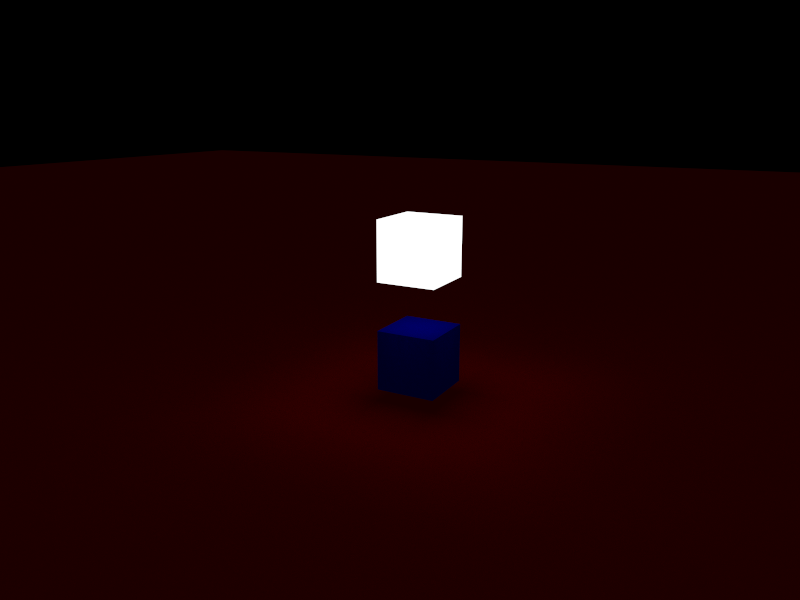
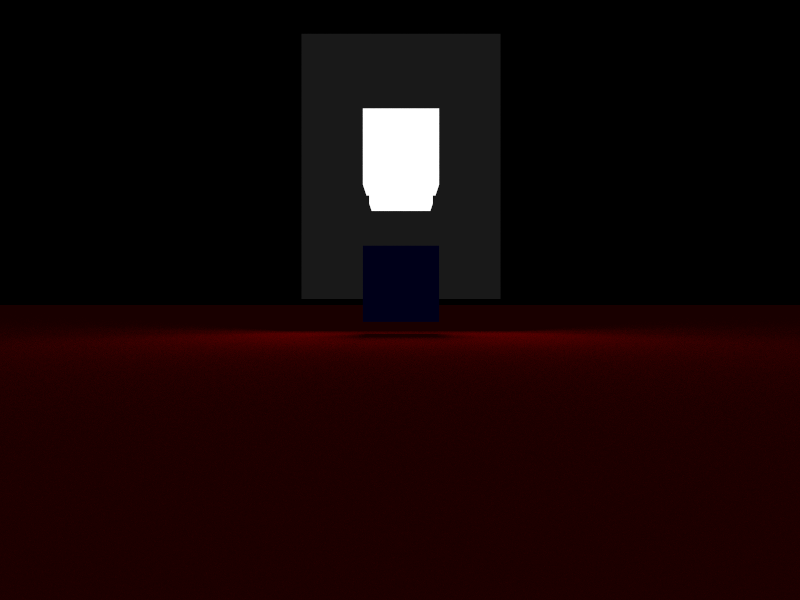
Cook torrance implemented

diff --git a/src/Window.cpp b/src/Window.cpp
@@ -223,33 +223,46 @@ void Window::createSurfaceObject()
 
 void Window::renderLoop()
 {
-    Material mat1("redmat", glm::vec4(1.0f, 0.0f, 0.0f, 1.0f), 1.0f);
-    Material mat2("bluemat", glm::vec4(0.0f, 0.0f, 1.0f, 1.0f), 1.0f);
-    Material mat3("lightmat", glm::vec4(0.0f, 0.0f, 0.0f, 1.0f), 1.0f, 0.0f, glm::vec3(1.0f, 1.0f, 1.0f), 10.0f);
-    Material mat4("mirrormat", glm::vec4(1.0f, 1.0f, 1.0f, 1.0f), 0.0f);
+    Material mat1("floormat", glm::vec4(1.0f, 1.0f, 1.0f, 1.0f), 1.0f);
+
+    Material mat2("lightmat", glm::vec4(0.0f, 0.0f, 0.0f, 1.0f), 1.0f, 0.0f, glm::vec3(1.0f, 1.0f, 1.0f), 10000.0f); 
+
+    Material mat3("smoothhalfmetal", glm::vec4(1.0f, 0.0f, 0.0f, 1.0f), 0.0f, 0.5f);
+    Material mat4("halfsmoothmetal", glm::vec4(1.0f, 0.0f, 0.0f, 1.0f), 0.5f, 1.0f);
+    Material mat5("roughhalfmetal", glm::vec4(1.0f, 0.0f, 0.0f, 1.0f), 1.0f, 0.5f);
+    Material mat6("halfsmoothdielectric", glm::vec4(1.0f, 0.0f, 0.0f, 1.0f), 0.5f, 0.0f);
 
     mat1.sendToGPU();
     mat2.sendToGPU();
     mat3.sendToGPU();
     mat4.sendToGPU();
+    mat5.sendToGPU();
+    mat6.sendToGPU();
+
 
     Cube cube(glm::vec3(0.0f, -1.0f, 0.0f), glm::quat(), glm::vec3(100.0f, 1.0f, 100.0f));
     scene->addToScene("cube", &cube);
-    cube.setMaterialName("redmat");
+    cube.setMaterialName("floormat");
 
-    Cube cube2(glm::vec3(0.0f, 0.2f, 0.0f));
+    Cube cube2(glm::vec3(0.0f, 2.0f, 0.0f));
     scene->addToScene("cube2", &cube2);
-    cube2.setMaterialName("bluemat");
-    
-    Cube cube3(glm::vec3(0.0f, 2.0f, 0.0f));
-    scene->addToScene("cube3", &cube3);
-    cube3.setMaterialName("lightmat");
+    cube2.setMaterialName("lightmat");
 
-    Cube cube4(glm::vec3(0.0f, 2.0f, -1.05f), glm::quat(), glm::vec3(3.0f, 4.0f, 0.25f));
+    Cube cube3(glm::vec3(-1.5f, 0.0f, -1.5f)); 
+    scene->addToScene("cube3", &cube3); 
+    cube3.setMaterialName("smoothhalfmetal"); 
+
+    Cube cube4(glm::vec3(1.5f, 0.0f, -1.5f));
     scene->addToScene("cube4", &cube4);
-	cube4.setMaterialName("mirrormat");
+    cube4.setMaterialName("halfsmoothmetal");
 
+    Cube cube5(glm::vec3(-1.5f, 0.0f, 1.5f));
+	scene->addToScene("cube5", &cube5);
+    cube5.setMaterialName("roughhalfmetal");
 
+    Cube cube6(glm::vec3(1.5f, 0.0f, 1.5f));
+    scene->addToScene("cube6", &cube6);
+    cube6.setMaterialName("halfsmoothdielectric");
     
     ImGuiIO& io = ImGui::GetIO();
 
@@ -387,8 +400,6 @@ void Window::displayWindowGUI(ImGuiIO& io)
         rtCPU->setSampleCount(sampleRate);
         rtCPU->setAntiAliasingEnabled(antiAliasing);
 	}
-    
-   
 
     if (ImGui::Button("Take Screenshot"))
     {

diff --git a/src/processor/GPU/GPURaytracer.hpp b/src/processor/GPU/GPURaytracer.hpp
@@ -168,6 +168,14 @@ __device__ GPURayHit getIntersectionPoint(const GPURay& ray, const ObjectData& d
 
 __device__ GPUTriangleHit distToTriangle(const GPURay& ray, const float4& v0, const float4& v1, const float4& v2);
 
+__device__ float4 fresnelSchlick(const float cosTheta, const float4& f0);
+
+__device__ float distributionGGX(const float4& n, const float4& h, const float roughness); 
+
+__device__ float geometrySchlickGGX(const float NdotV, const float roughness); 
+
+__device__ float geometrySmith(const float4& n, const float4& v, const float4& l, const float roughness);
+
 __device__ __forceinline__ float4 exposureCorrection(const float4 color, const float exposure);
 
 // GPU math functions

diff --git a/src/processor/Raytracer.hpp b/src/processor/Raytracer.hpp
@@ -13,6 +13,8 @@
 #define MAX_DISTANCE 100.0f
 #define AO_INTENSITY 0.01f
 
+#define PI 3.141592f
+
 class Raytracer
 {
 public:
